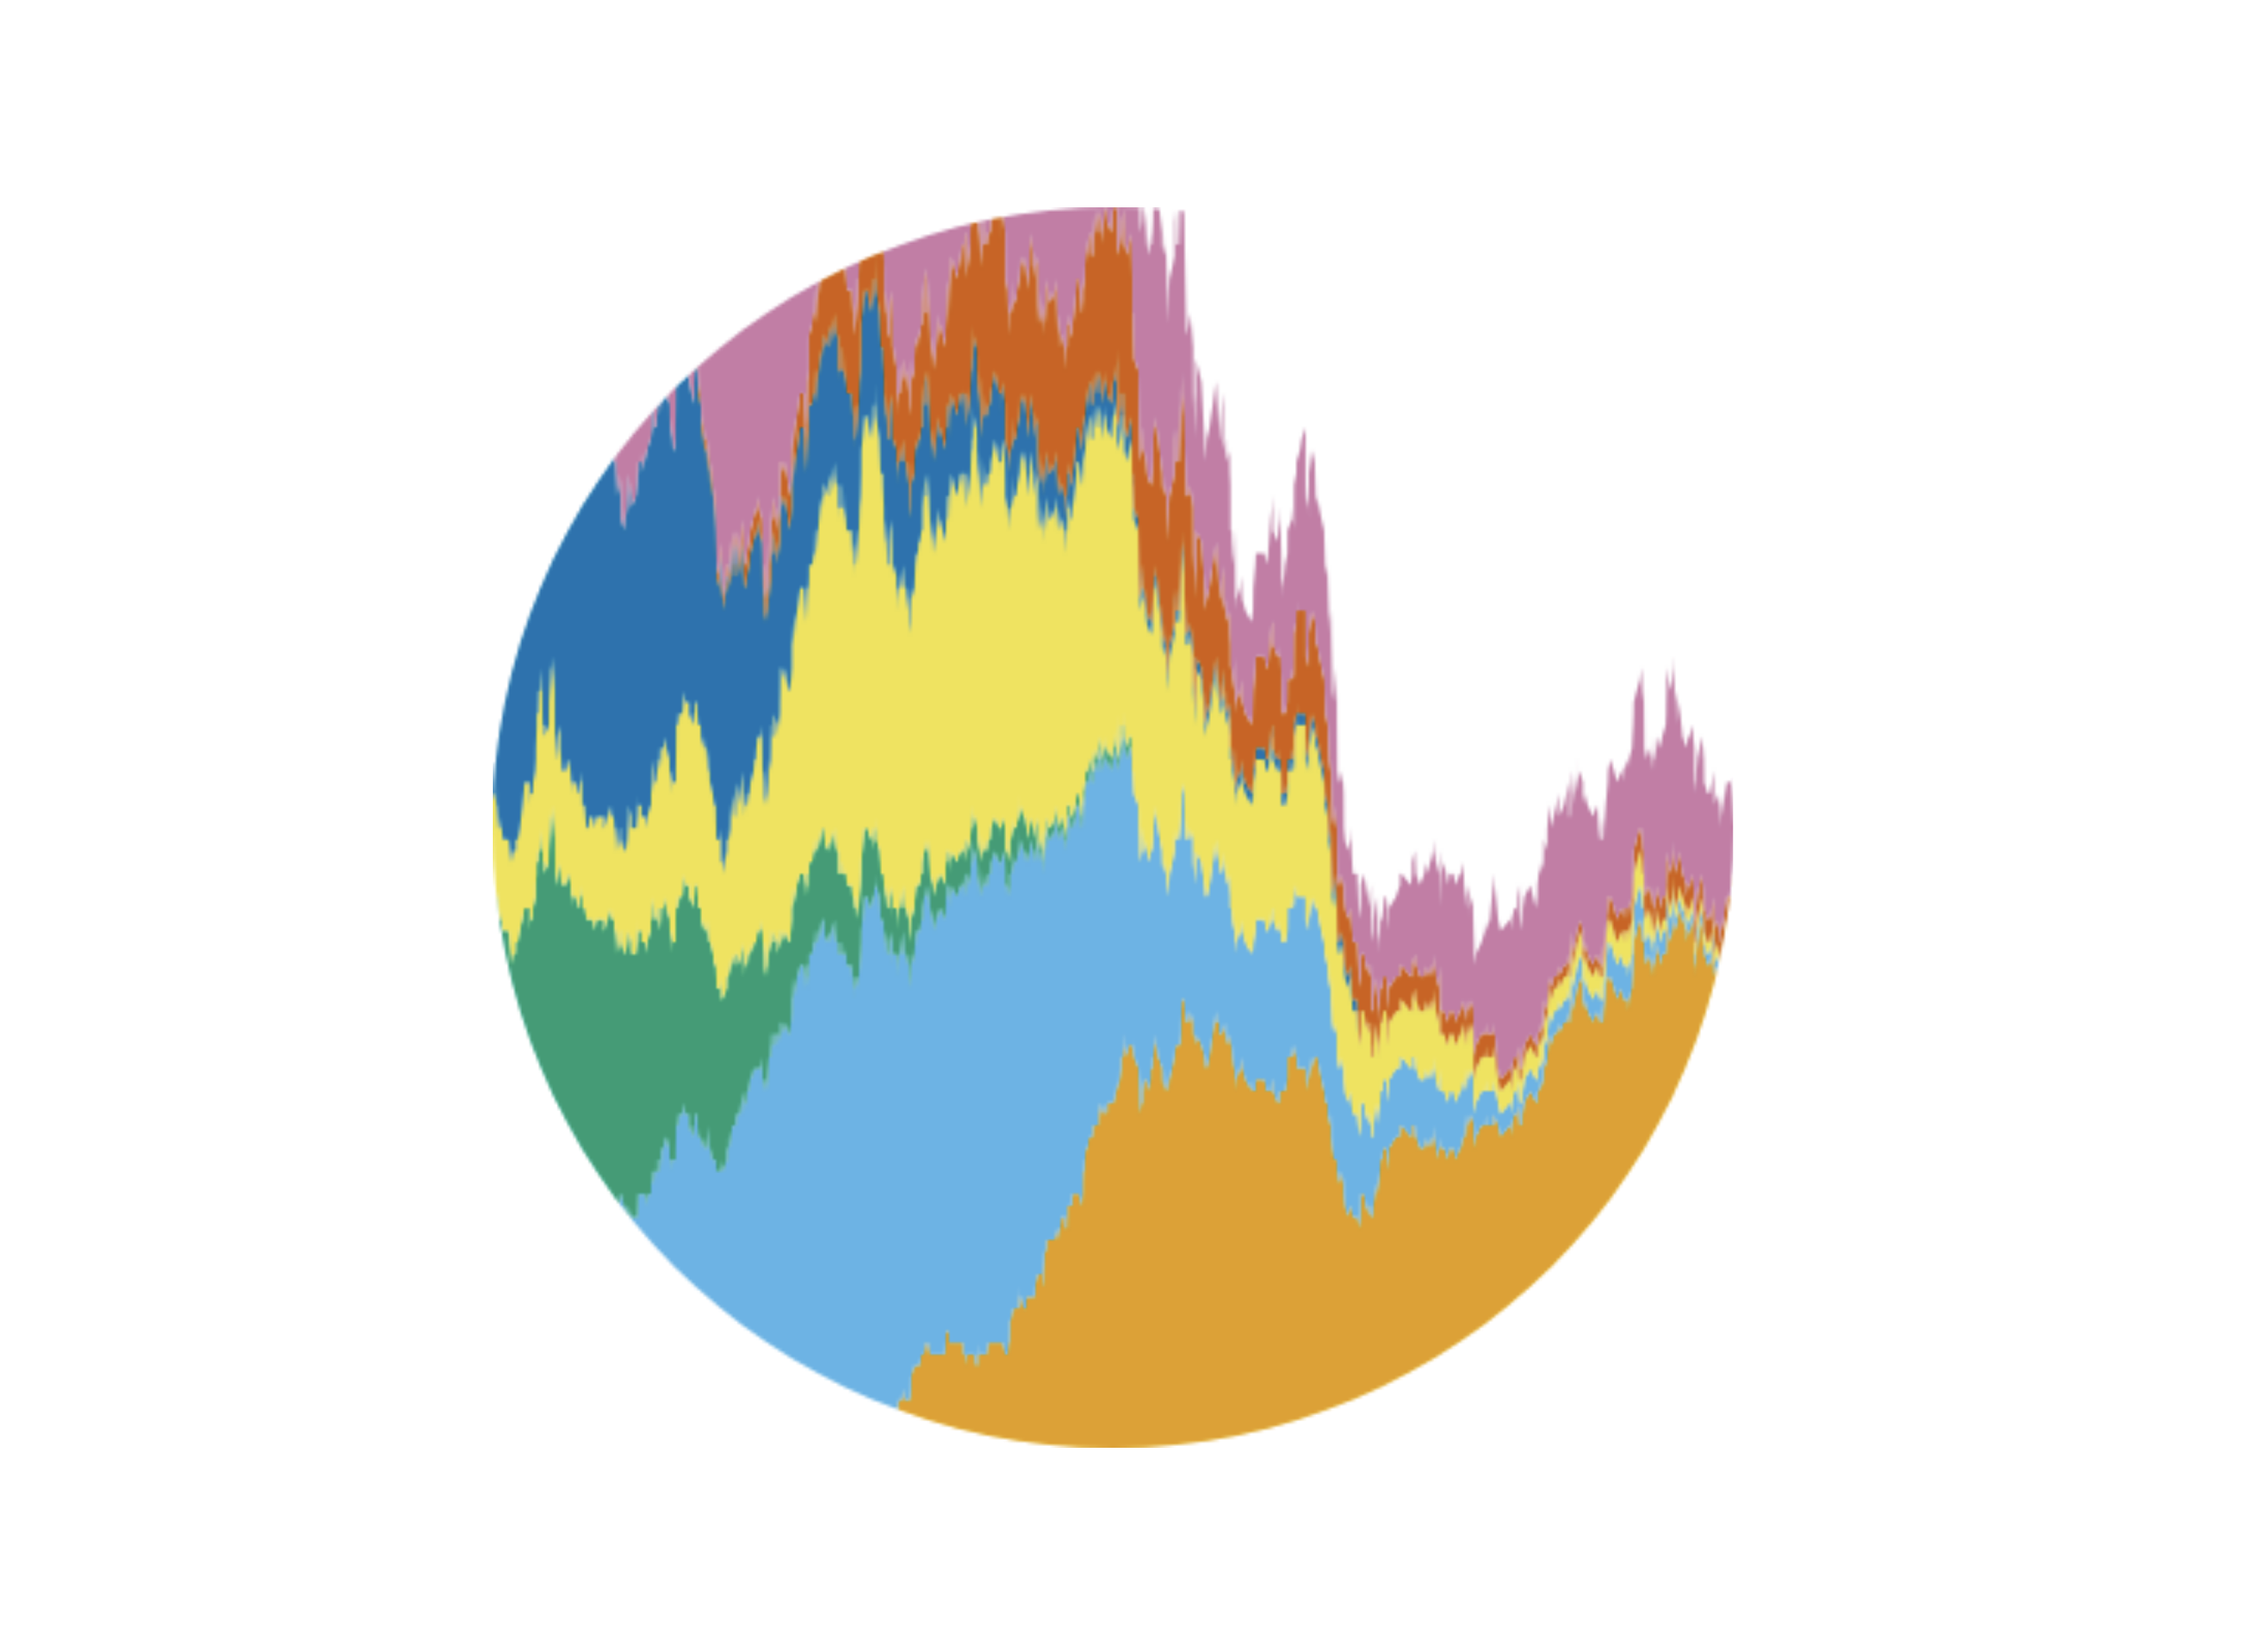
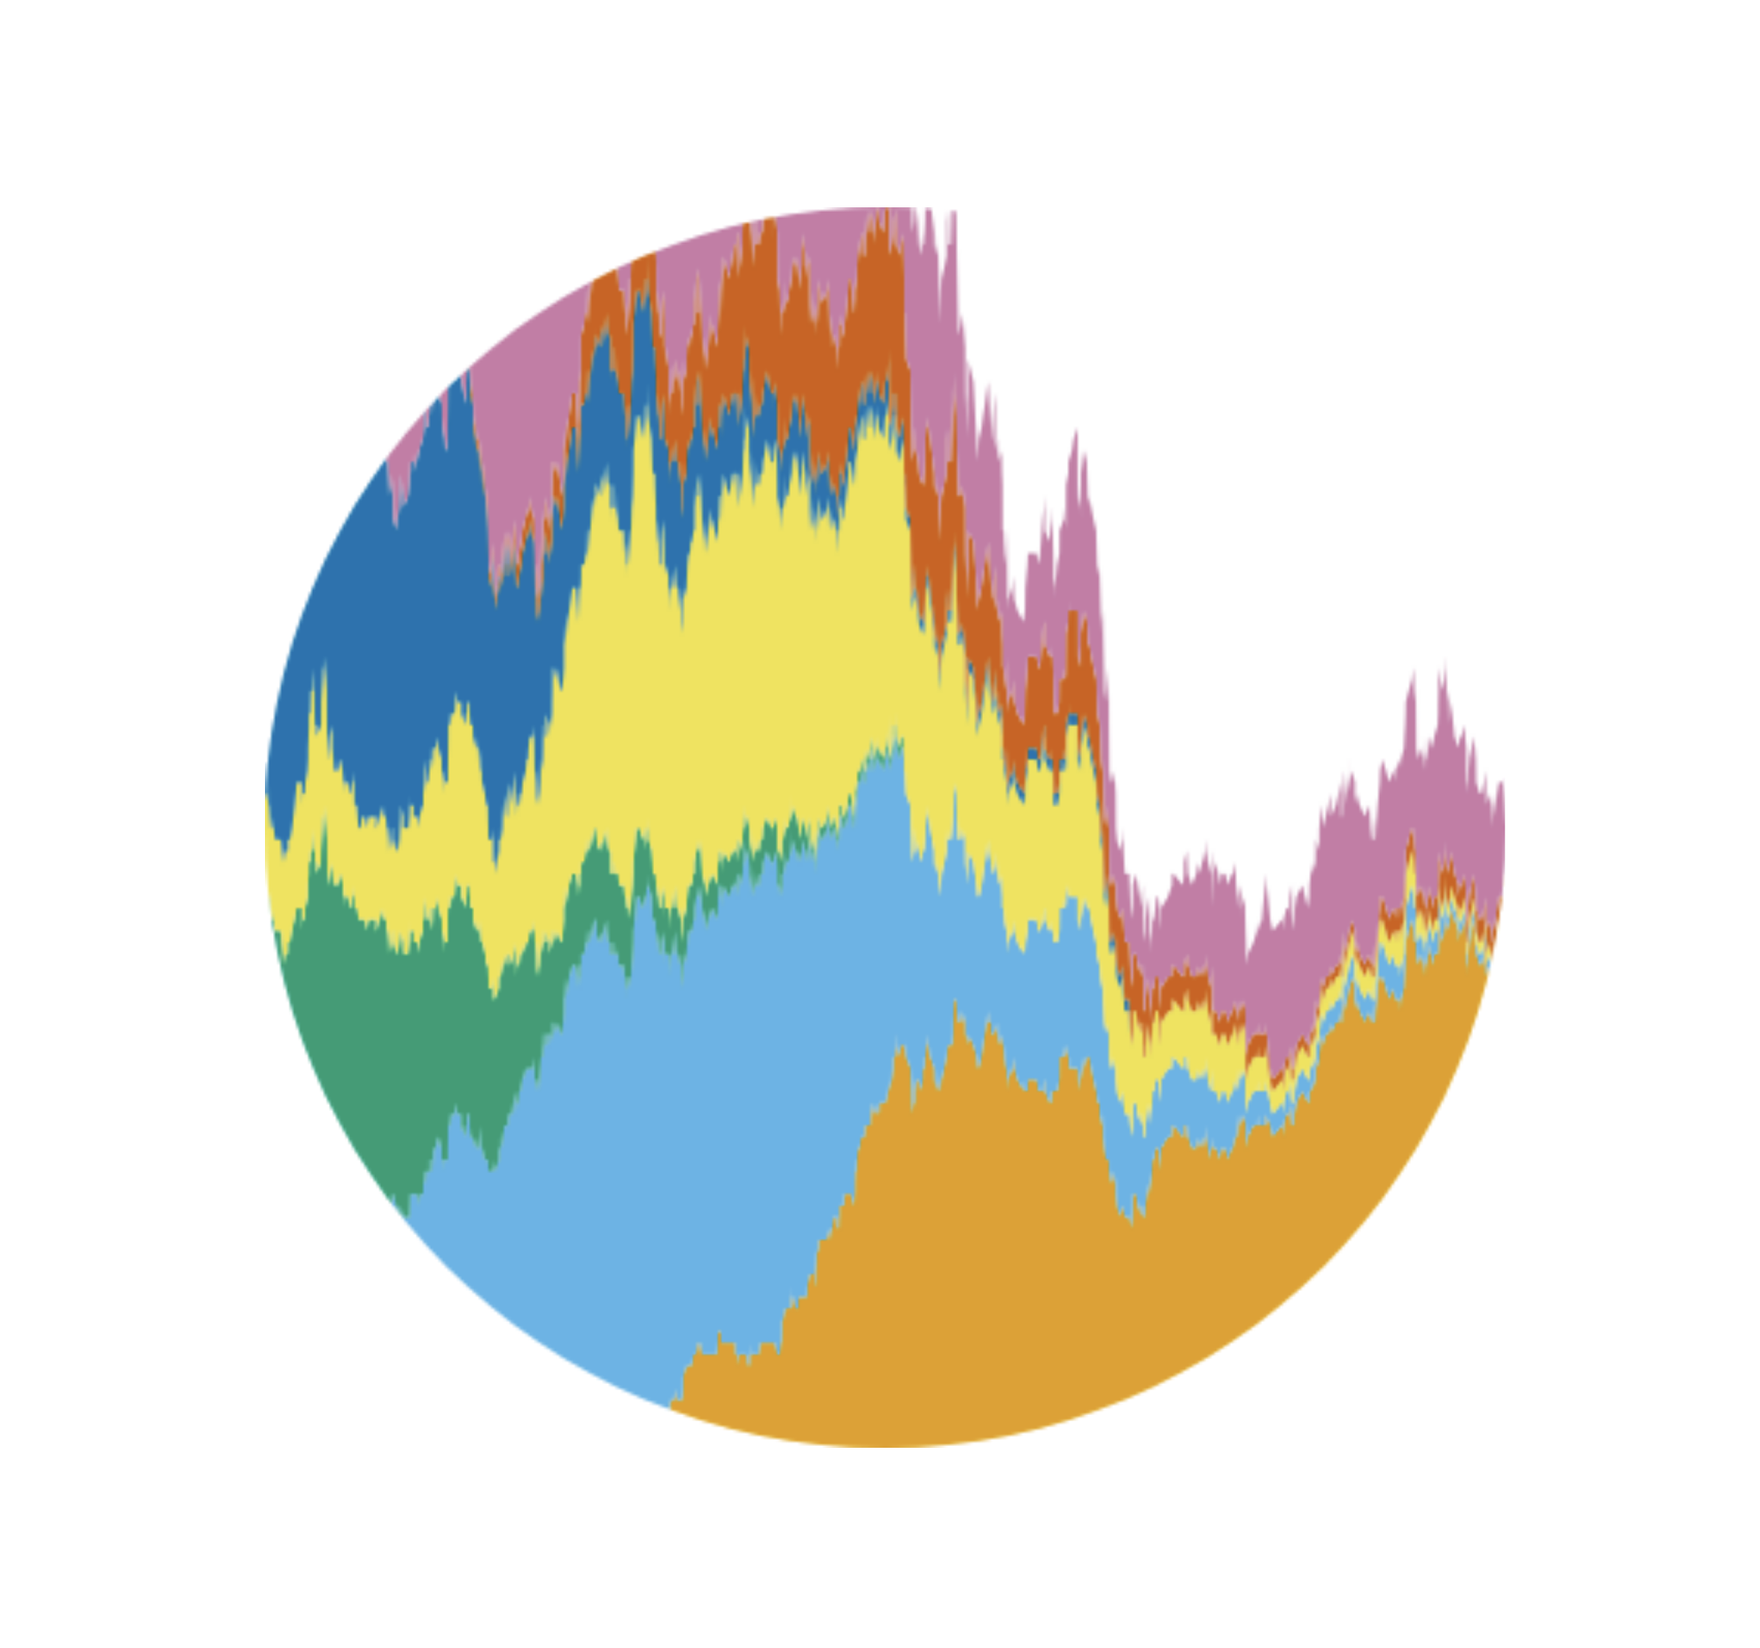
Reformat header image in README

Changed region(s): [[0.1249, 0.1247, 0.8741, 0.8731], [0.5307, 0.8731, 0.5619, 0.9043]]

diff --git a/README.md b/README.md
@@ -1,4 +1,4 @@
-Opqua <img align="right" src="img/circle-header.png" width="300px" title="circle header">
+Opqua <img align="right" src="img/circle-header.png" width="400px" title="circle header">
 =====
 
 **opqua** (opkua, upkua)
